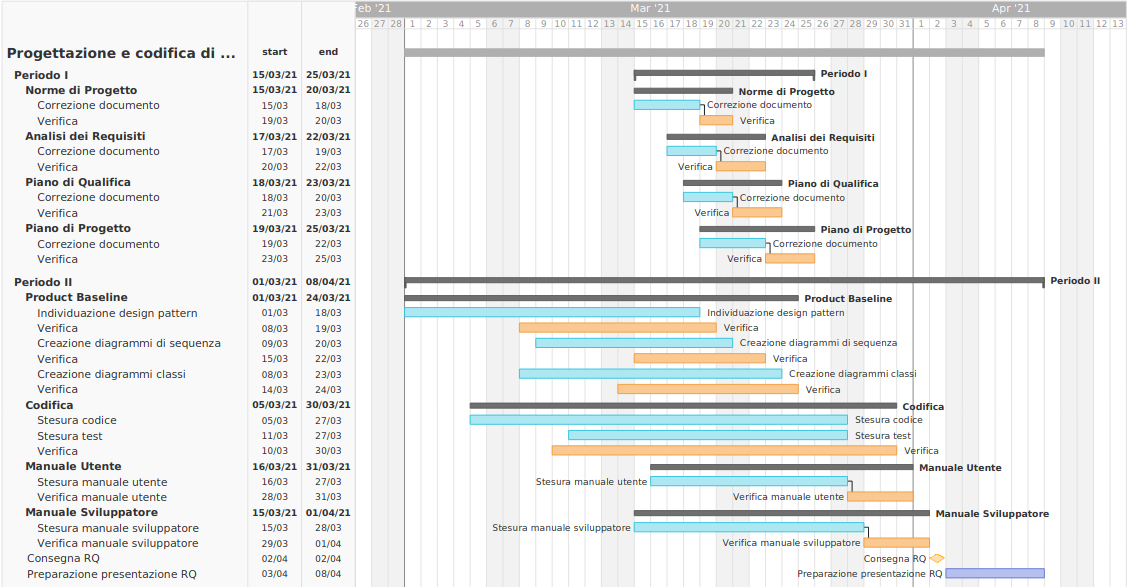
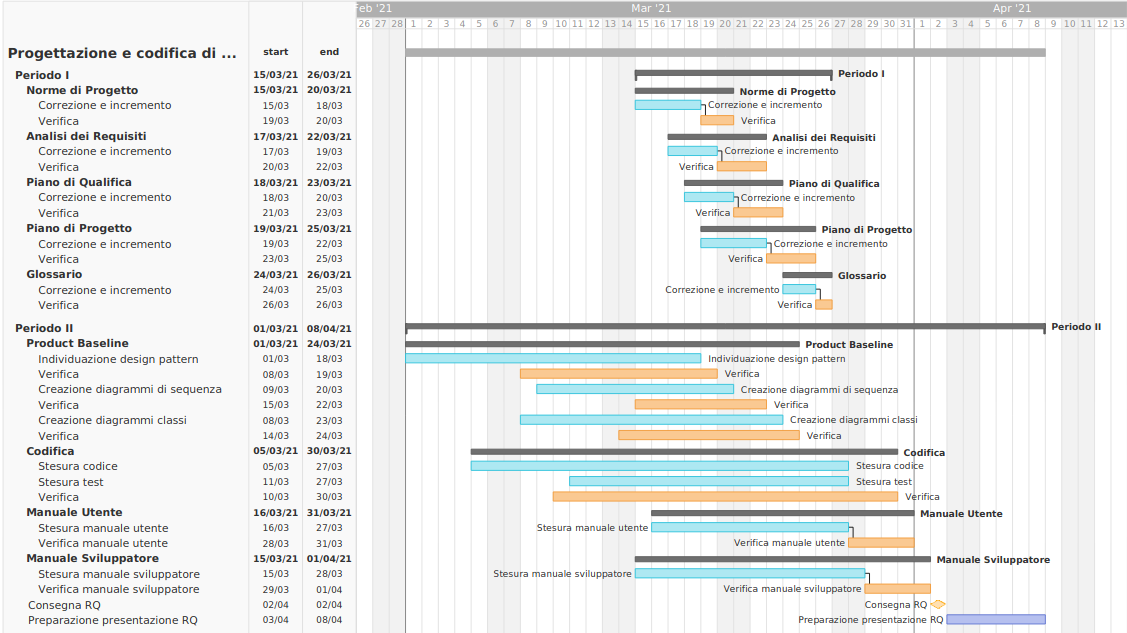
Aggiornata pianificazione

Changed region(s): [[0.3106, 0.0, 1.0, 1.0], [0.0, 0.0613, 0.3106, 1.0]]

diff --git a/esterni/piano_di_progetto/src/4_pianificazione.tex b/esterni/piano_di_progetto/src/4_pianificazione.tex
@@ -307,7 +307,7 @@ Questa fase viene divisa in due macro periodi.
 % \end{figure}
 
 \subsubsection{Periodo I - Documenti}
-Questo periodo ha una durata di 10 giorni. Viene collocato subito dopo i risultati della \textsc{Revisione di Progettazione} stimata per il 2021-03-15.
+Questo periodo ha una durata di 11 giorni. Viene collocato subito dopo i risultati della \textsc{Revisione di Progettazione} stimata per il 2021-03-15.
 Le attività che verranno svolte in questo periodo sono:
 \begin{itemize}
     \item Correzione dei documenti: vengono corretti i documenti secondo le indicazioni fornite al gruppo dal docente;
